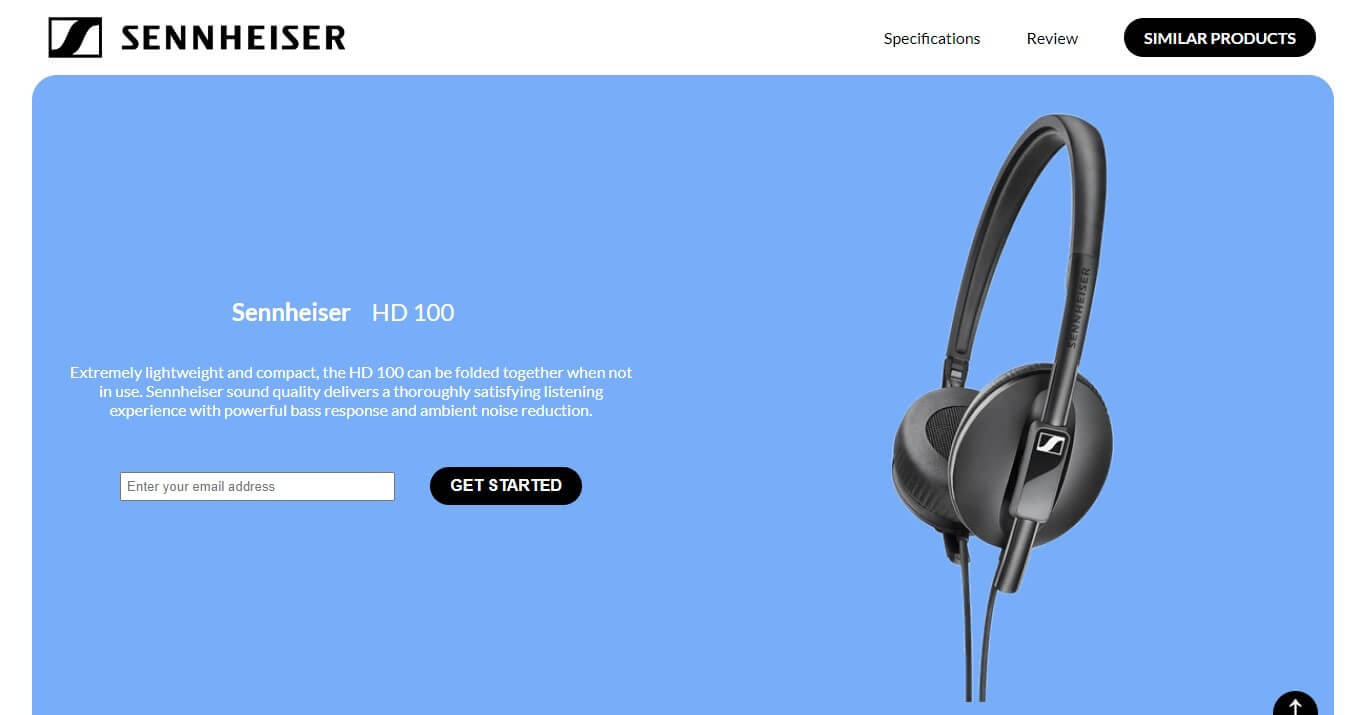
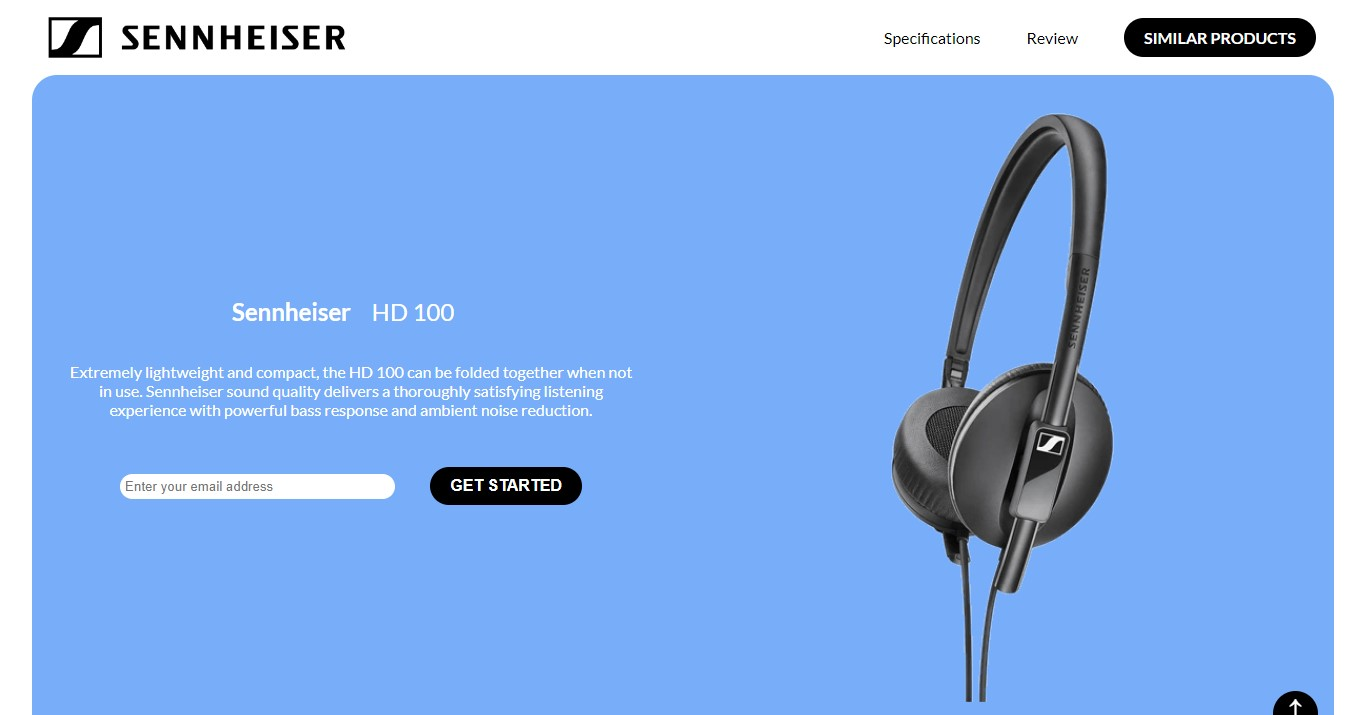
Edited form input

diff --git a/styles.css b/styles.css
@@ -151,6 +151,8 @@ iframe {
 }
 
 input {
+	border: none;
+	border-radius: 15px;
 	margin-top: 1rem;
 }
 
